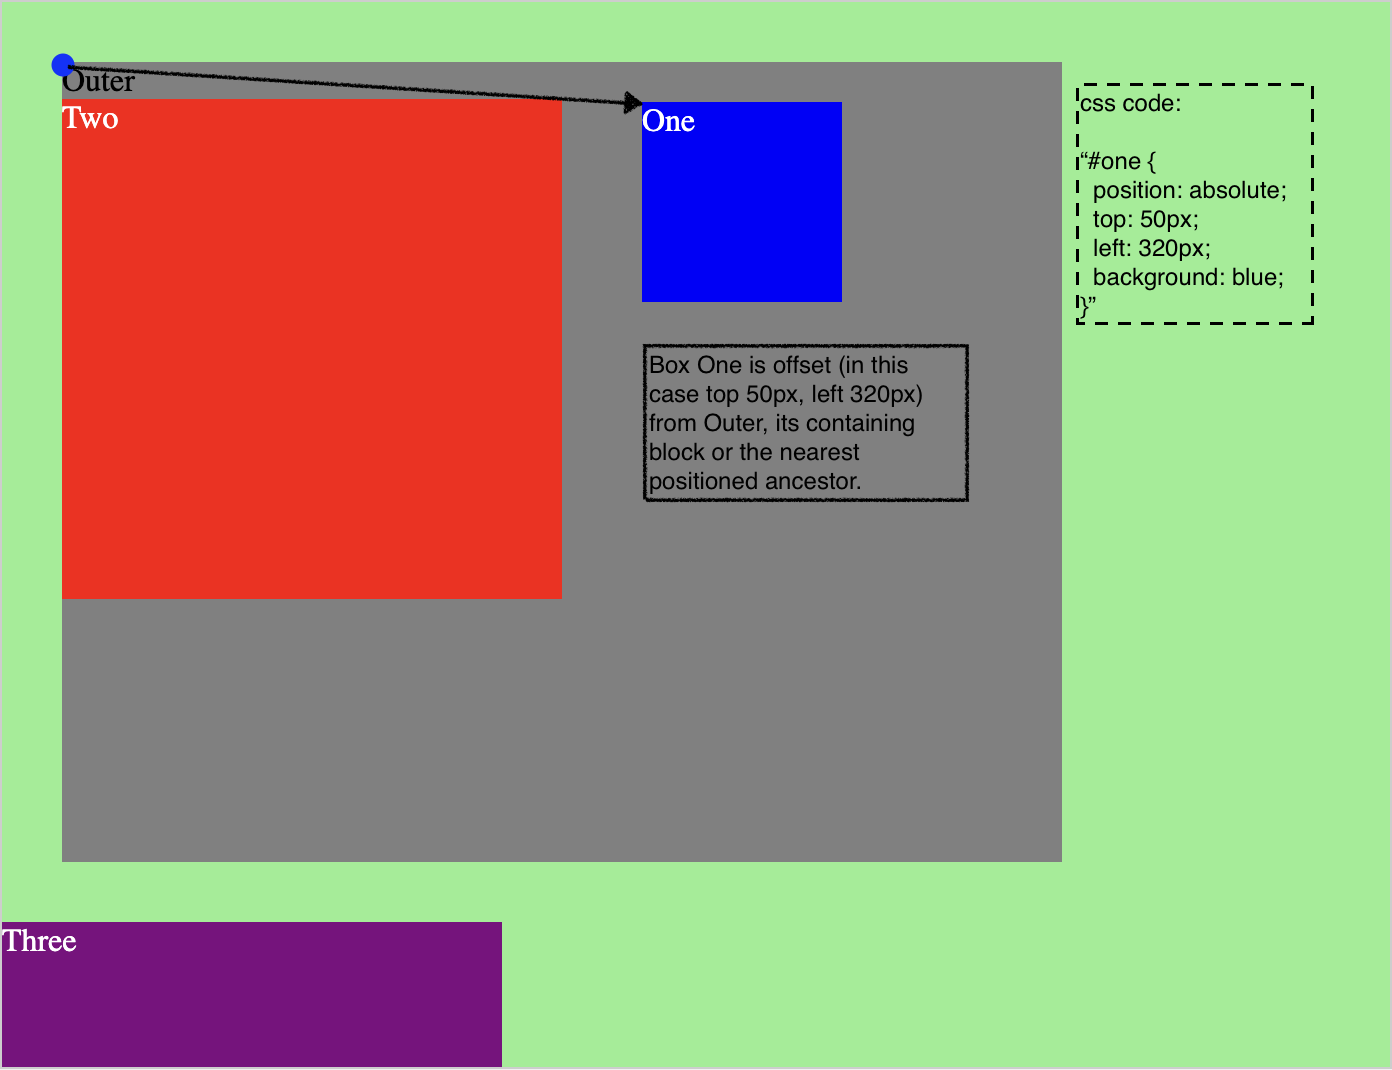
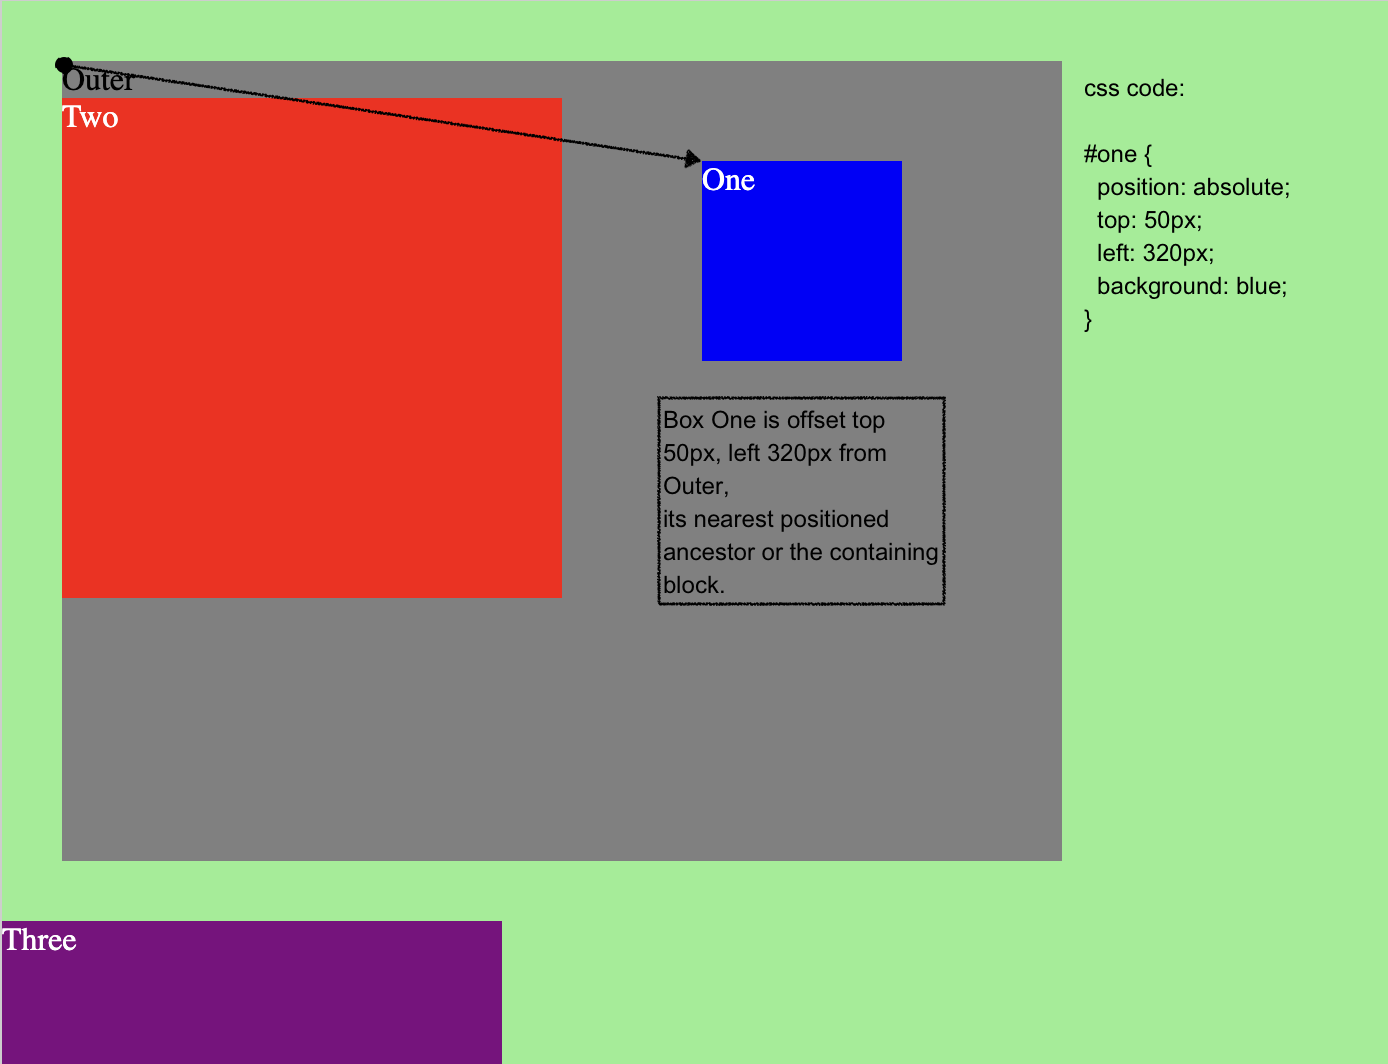
Fix an error in the screenshot for HTML and CSS blog

diff --git a/blog/html-css.html b/blog/html-css.html
@@ -24,9 +24,9 @@
                 body {background-color: lightgreen;}<br/>
                 .box {width: 100px; height: 100px; background: red; color: white;}<br/>
                 #one {position: fixed; top: 50px; left: 320px; background: blue;}<br/>
-                #two {position: static; width: 250px; height: 250px;}<br/>
+                #two {width: 250px; height: 250px;}<br/>
                 #three {width: 250px; height: 250px; background-color: purple;}<br/>
-                .outer {width: 500px; height: 400px; overflow: scroll; margin: 30px; background-color: grey;}
+                .outer {position: relative; width: 500px; height: 400px; overflow: scroll; margin: 30px; background-color: grey;}
             </code>
         </p>
         <ul>

diff --git a/styles/blog.css b/styles/blog.css
@@ -6,8 +6,8 @@
     background-color: whitesmoke;
     border: 1px solid black;
     padding: 5px;
-    margin: 10px 20px;
     width: 650px;
+    margin: 5px 20px;
 }
 
 .tech_drawing {
